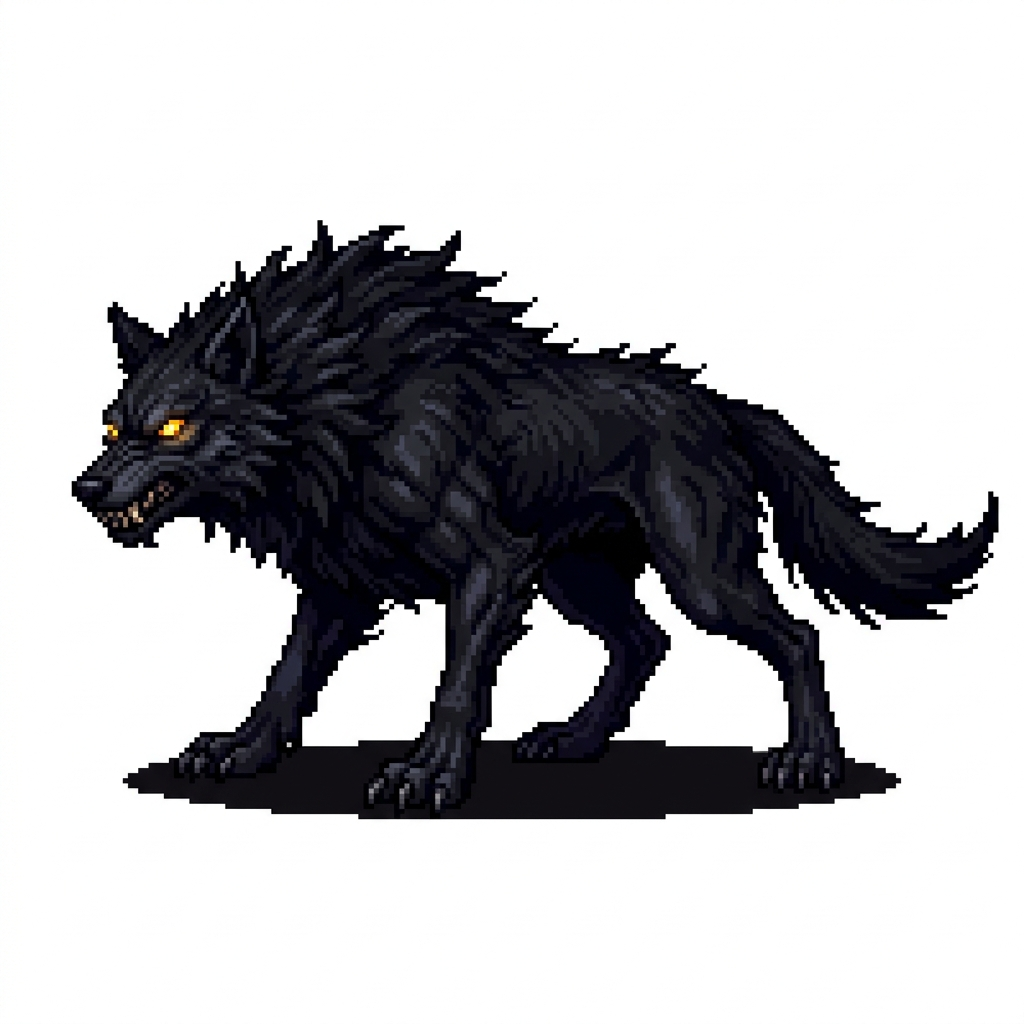
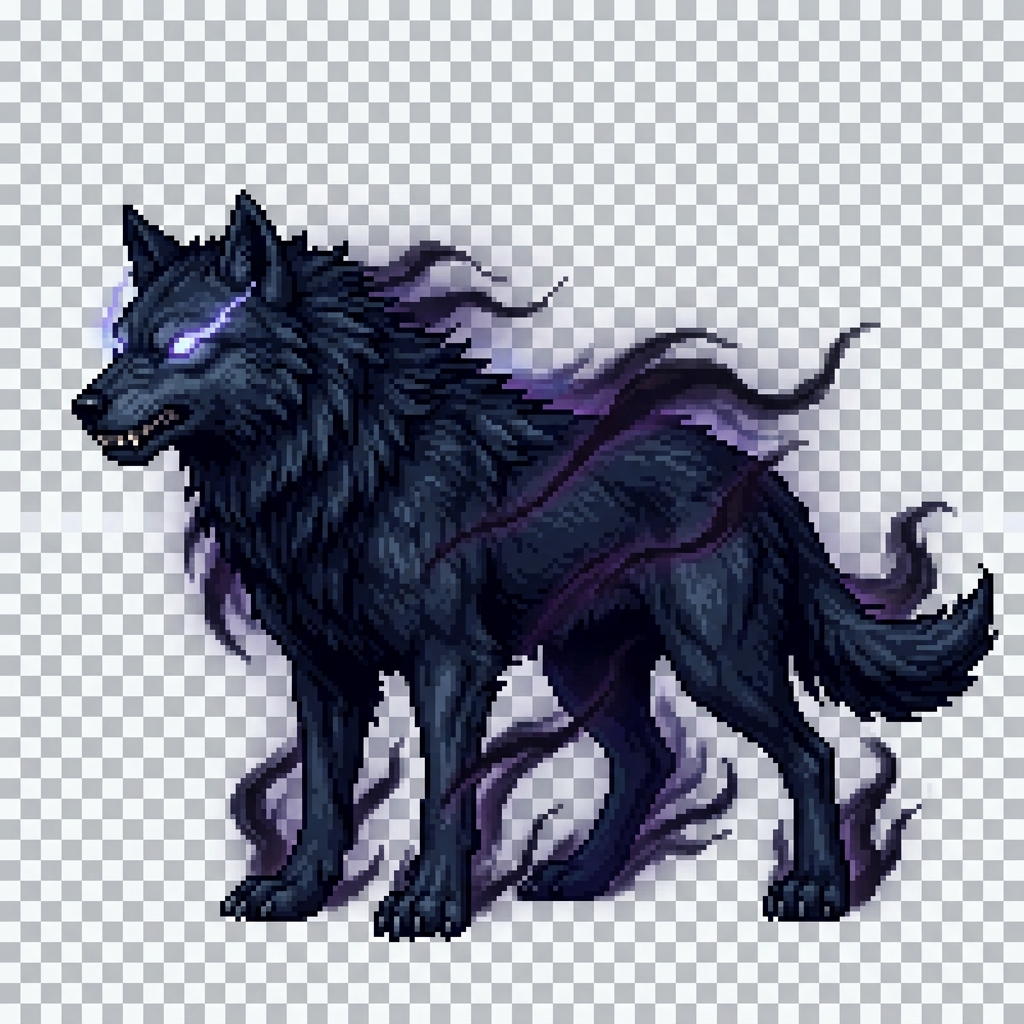
feat: add wolf enemy asset and integrate transparent rendering in CombatScene

diff --git a/src/phaser/scenes/CombatScene.ts b/src/phaser/scenes/CombatScene.ts
@@ -18,9 +18,9 @@ export class CombatScene extends Phaser.Scene {
   private unsubscribeSkill?: () => void;
 
   public readonly PLAYER_START_X = 200;
-  public readonly PLAYER_START_Y = Math.round(600 - 115 * ZOOM_FACTOR);
+  public readonly PLAYER_START_Y = Math.round((600 - 50 * ZOOM_FACTOR) - (125 * ZOOM_FACTOR) / 2);
   public readonly ENEMY_START_X = 900;
-  public readonly ENEMY_START_Y = Math.round(600 - 115 * ZOOM_FACTOR);
+  public readonly ENEMY_START_Y = Math.round((600 - 50 * ZOOM_FACTOR) - (125 * ZOOM_FACTOR) / 2);
 
   constructor() {
     super('CombatScene');
@@ -178,7 +178,7 @@ export class CombatScene extends Phaser.Scene {
 
     // Player (Herói) usando a textura da classe atualizada
     this.playerBody = this.add.image(this.PLAYER_START_X, this.PLAYER_START_Y, playerTexture);
-    this.playerBody.setDisplaySize(95 * ZOOM_FACTOR, 95 * ZOOM_FACTOR);
+    this.playerBody.setDisplaySize(125 * ZOOM_FACTOR, 125 * ZOOM_FACTOR);
     this.playerBody.setFlipX(false);
 
     // Inicializar FSM de combate antes de criar os inimigos para pegar informações corretas
@@ -186,7 +186,6 @@ export class CombatScene extends Phaser.Scene {
 
     // Inimigo usando a textura do tipo de inimigo ativo
     this.enemyBody = this.add.image(this.ENEMY_START_X, this.ENEMY_START_Y, this.fsm.currentEnemy.texture + '_transparent');
-    this.respawnEnemyAt(this.ENEMY_START_X, this.fsm.currentEnemy);
     
     // Atualiza o target do FSM
     this.fsm['target'] = this.enemyBody;
@@ -196,22 +195,26 @@ export class CombatScene extends Phaser.Scene {
     const friendlyName = (CLASS_CONFIGS[classConfig.classId]?.name || classConfig.classId).toUpperCase();
 
     this.add.text(this.PLAYER_START_X, this.PLAYER_START_Y - 65 * ZOOM_FACTOR, friendlyName, { 
-      fontSize: '15px', 
+      fontSize: '19px', 
       color: '#60a5fa', 
       fontStyle: 'bold', 
       fontFamily: 'monospace',
       stroke: '#000000',
-      strokeThickness: 4
+      strokeThickness: 5
     }).setOrigin(0.5);
 
-    this.enemyLevelText = this.add.text(this.enemyBody.x, this.ENEMY_START_Y - 65 * ZOOM_FACTOR, `${this.fsm.currentEnemy.name} (Lv. ${this.fsm.enemyLevel})`, { 
-      fontSize: '15px', 
-      color: this.fsm.currentEnemy.color, 
+    // Inicializa o texto vazio; a posição correta, cor e conteúdo serão atribuídos imediatamente pela chamada do respawnEnemyAt abaixo
+    this.enemyLevelText = this.add.text(this.enemyBody.x, this.ENEMY_START_Y - 65 * ZOOM_FACTOR, '', { 
+      fontSize: '19px', 
+      color: '#ffffff', 
       fontStyle: 'bold', 
       fontFamily: 'monospace',
       stroke: '#000000',
-      strokeThickness: 4
+      strokeThickness: 5
     }).setOrigin(0.5);
+
+    // Faz o spawn inicial do primeiro inimigo, o que configurará o enemyLevelText perfeitamente
+    this.respawnEnemyAt(this.ENEMY_START_X, this.fsm.currentEnemy);
 
     // Painel de Progresso do Estágio
     this.stageText = this.add.text(400, 35, 'Fase 1 - Progresso: 0/10', {
@@ -423,10 +426,10 @@ export class CombatScene extends Phaser.Scene {
       this.enemyBody.setTexture(enemyType.texture + '_transparent');
       
       const isBoss = enemyType.id.startsWith('boss_');
-      const size = (isBoss ? 135 : 95) * ZOOM_FACTOR;
-      const sizeDiffOffset = (isBoss ? 20 : 0) * ZOOM_FACTOR;
+      const size = (isBoss ? 165 : 125) * ZOOM_FACTOR;
+      const targetY = Math.round((600 - 50 * ZOOM_FACTOR) - size / 2 + (enemyType.yOffset || 0) * ZOOM_FACTOR);
       
-      this.enemyBody.setPosition(startX, this.ENEMY_START_Y + (enemyType.yOffset || 0) * ZOOM_FACTOR - sizeDiffOffset);
+      this.enemyBody.setPosition(startX, targetY);
       this.enemyBody.setDisplaySize(size, size);
       this.enemyBody.setAlpha(1);
       this.enemyBody.angle = 0;